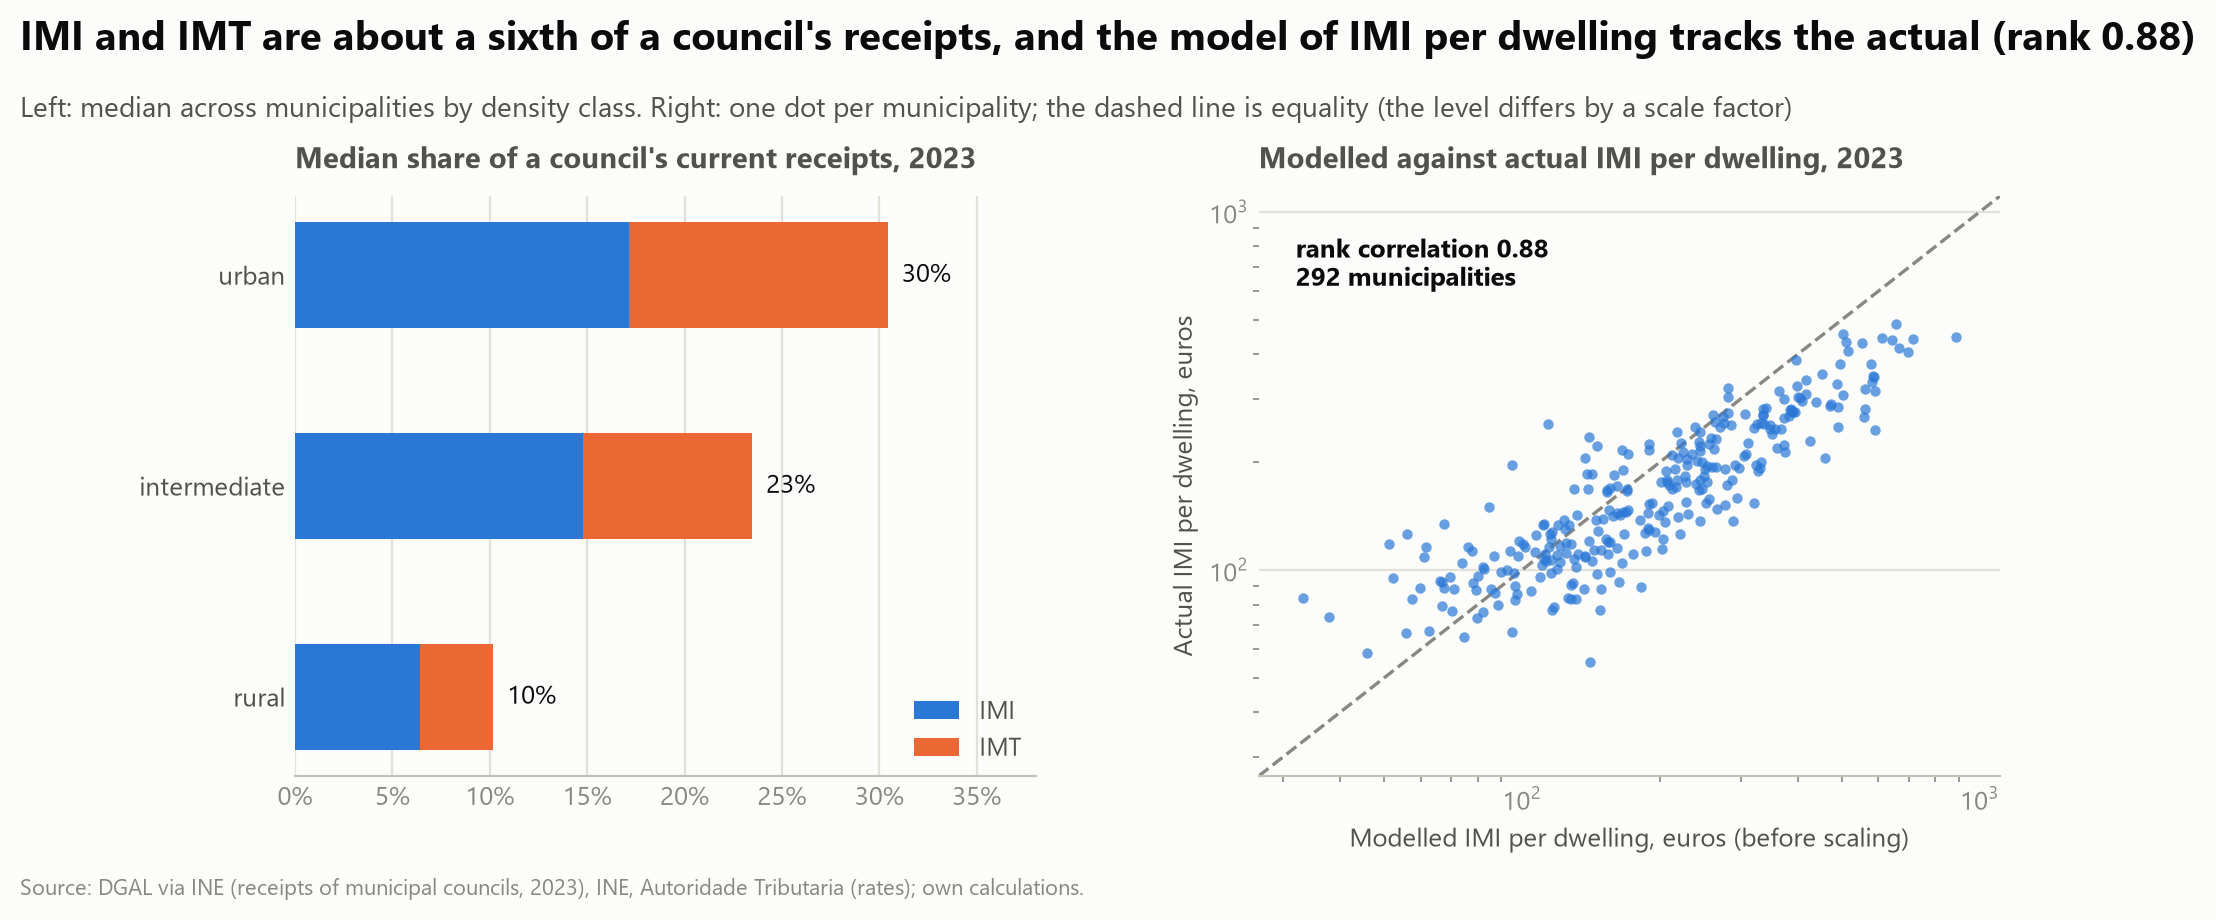
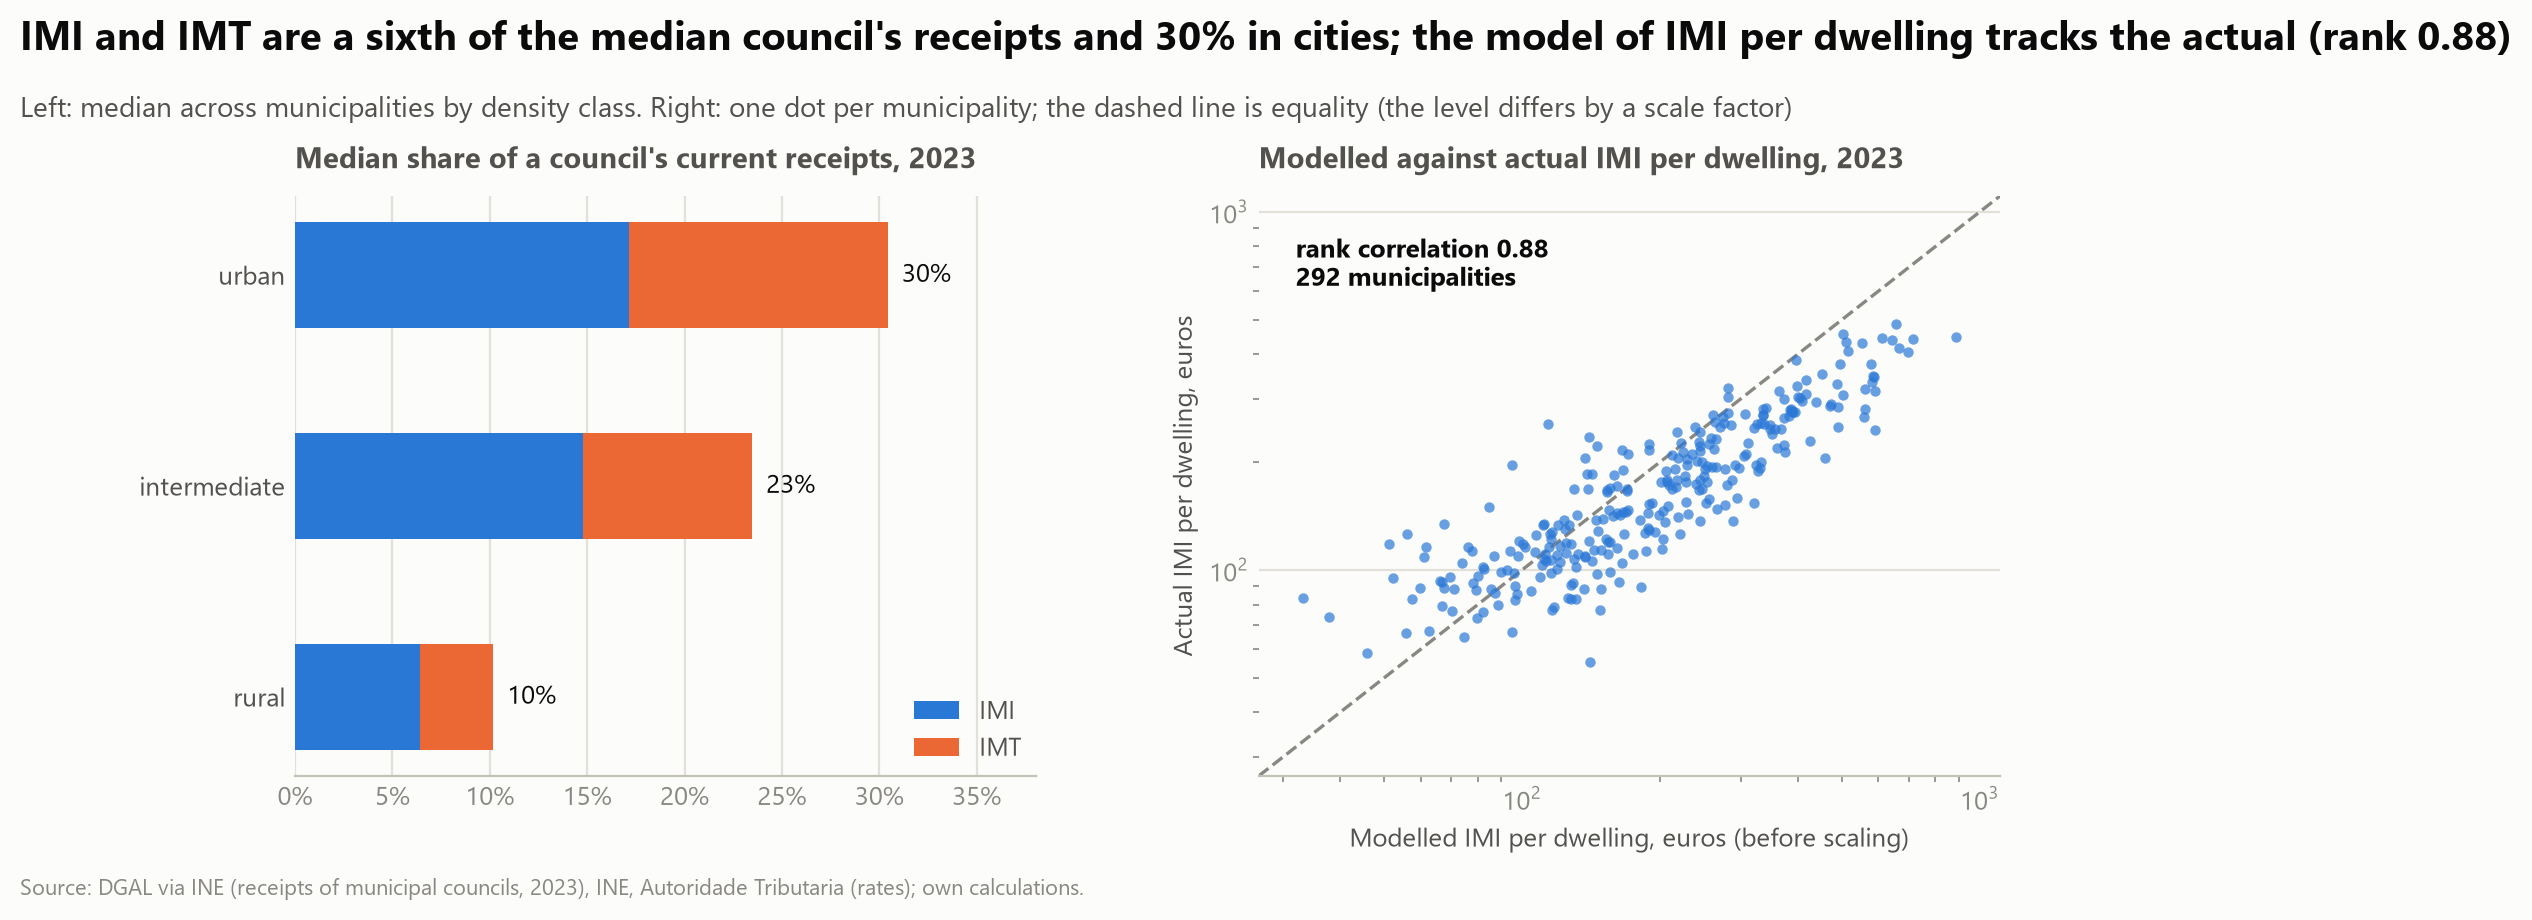
Show the council results of p3_12 on the Explanatory policy tab

diff --git a/app/pages/3_Explanatory.py b/app/pages/3_Explanatory.py
@@ -509,7 +509,7 @@ with tab_policy:
     st.subheader("What is at stake: the money")
     st.markdown(
         "IMI and IMT are **municipal** revenue, so a cut costs councils, not the central budget. These are national "
-        "figures (`p3_04`, `p3_05`); by council, IMI and IMT are about a sixth of the median council's receipts and 30% in cities (2021-2023, `p3_12`)."
+        "figures (`p3_04`, `p3_05`); the receipts of each council, 2021-2023, are further down (`p3_12`)."
     )
     revenue = table("p3", "property_tax_series").set_index("year")
     spend = table("p3", "housing_spending_series").set_index("year")
@@ -610,6 +610,114 @@ with tab_policy:
     right.caption(
         "Prices: nominal change 2015 to 2024. Tax: recurrent property tax; support: housing development plus allowances, both as the mean share of GDP 2015-2024. Italy has no housing-support value (2022-2023 spending far above trend). "
         "Six countries and three indicators: a comparison, not a test (`p3_07`)."
+    )
+
+    st.subheader("By council: who collects the money")
+    muni_nat = table("p3", "municipal_tax_national").set_index("year")
+    by_place = table("p3", "municipal_tax_by_place")
+    room_tab = table("p3", "municipal_floor_room").set_index("rate")
+    room_by = table("p3", "municipal_floor_room_by_place")
+    windfall = table("p3", "municipal_imt_windfall").set_index("measure")["value"]
+    last_year = int(muni_nat.index[-1])
+    first_year = int(muni_nat.index[0])
+    st.markdown(
+        f"Receipts of the 307 municipal councils (DGAL via INE, {first_year}-{last_year}): IMI plus IMT were "
+        f"**{muni_nat.loc[last_year, 'imi_imt_share_pct']:.0f}%** of all current receipts in {last_year} "
+        f"({muni_nat.loc[first_year, 'imi_imt_share_pct']:.0f}% in {first_year}), and {muni_nat.loc[last_year, 'median_council_share_pct']:.0f}% "
+        "for the median council. The cost of a cut falls on the council that collects, and councils differ a lot."
+    )
+    order = [
+        ("density_class", "urban", "Urban"),
+        ("density_class", "intermediate", "Intermediate"),
+        ("density_class", "rural", "Rural"),
+        ("coast_class", "coast", "Coast"),
+        ("coast_class", "inland", "Inland"),
+        ("tourist", "tourist", "Tourist"),
+        ("tourist", "other", "Other places"),
+    ]
+    rows = [
+        (label, by_place[(by_place["dimension"] == dim) & (by_place["class"] == cls)].iloc[0])
+        for dim, cls, label in order
+    ]
+    left, right = st.columns(2)
+    fig = go.Figure()
+    for col, name, color in (
+        ("imi_share_pct", "IMI", style.BLUE),
+        ("imt_share_pct", "IMT", style.ORANGE),
+    ):
+        fig.add_bar(
+            y=[f"{label} ({int(r['councils_n'])})" for label, r in rows],
+            x=[r[col] for _, r in rows],
+            name=name,
+            orientation="h",
+            marker_color=color,
+            text=[f"{r[col]:.0f}%" for _, r in rows],
+            textposition="inside",
+        )
+    fig.update_layout(barmode="stack", legend=dict(orientation="h", y=-0.2))
+    fig.update_yaxes(autorange="reversed")
+    fig.update_xaxes(title=f"Median share, {last_year} (%)")
+    left.plotly_chart(_style(fig, "IMI and IMT in a council's receipts", 380), width="stretch")
+    left.caption(
+        "Median across the councils of each class (number in brackets); urban and coastal councils and tourist ones, "
+        "where IMT is 22% of receipts, depend most (`p3_12`). Classes are proxies (density, coast, registered short-term rentals)."
+    )
+    rb = room_by[room_by["dimension"].isin(["density_class", "coast_class"])]
+    labels_room = {
+        "urban": "Urban",
+        "intermediate": "Intermediate",
+        "rural": "Rural",
+        "coast": "Coast",
+        "estuary": "Estuary",
+        "inland": "Inland",
+    }
+    fig = go.Figure(
+        go.Bar(
+            y=[
+                f"{labels_room[c]} ({int(n)} over 1%)"
+                for c, n in zip(rb["class"], rb["over_one_pct_n"], strict=True)
+            ],
+            x=rb["share_of_room_pct"],
+            orientation="h",
+            marker_color=style.BLUE,
+            text=[f"{x:.0f}%" for x in rb["share_of_room_pct"]],
+            textposition="outside",
+        )
+    )
+    fig.update_yaxes(autorange="reversed")
+    fig.update_xaxes(title="Share of the cost (%)", range=[0, 80])
+    right.plotly_chart(_style(fig, "Who would pay a cut to the floor", 380), width="stretch")
+    year_before = room_tab.loc["rate of the year before"]
+    right.caption(
+        "In brackets: councils for which the cost passes 1% of their current receipts. "
+        f"Cutting every urban IMI rate to 0.30% costs {room_tab['room_eur_m'].min():.0f} to {room_tab['room_eur_m'].max():.0f} million euros "
+        f"a year ({room_tab['room_share_of_imi_pct'].min():.1f}% to {room_tab['room_share_of_imi_pct'].max():.1f}% of IMI); "
+        f"{int(year_before['at_floor_n'])} of {int(year_before['councils_n'])} councils are at the floor already. "
+        f"For {int(year_before['over_one_pct_of_current_n'])} councils the cost passes 1% of their current receipts (up to "
+        f"{year_before['max_share_of_current_pct']:.0f}%), and they are spread out, many of them inland. Accounting, base held fixed (`p3_12`)."
+    )
+    a, b, c = st.columns(3)
+    a.metric(
+        f"IMT, {first_year} to {last_year}",
+        f"+{windfall['change_eur_m']:.0f} million euros",
+        f"+{windfall['change_pct']:.0f}%",
+        delta_color="off",
+    )
+    b.metric(
+        "That rise against the room to cut IMI",
+        f"{windfall['rise_over_floor_room_total']:.1f} times",
+        f"more than a council's own room in {windfall['councils_where_rise_exceeds_room_pct']:.0f}% of councils",
+        delta_color="off",
+    )
+    c.metric(
+        "Councils whose IMT rose",
+        f"{windfall['councils_with_a_rise_pct']:.0f}%",
+        f"median council {windfall['median_council_change_pct']:+.0f}%",
+        delta_color="off",
+    )
+    st.caption(
+        "IMT rose with prices and sales, not as a response to any cut; three years of receipts (basis not stated), no trend. "
+        "Municipal IMI is 90% of the national tax on land and buildings (the rest is the State's AIMI) and IMT 102% of the national IMT (`p3_12`)."
     )
 
     path = table("p3", "rent_update_path").set_index("year")

diff --git a/notebooks/p3_policy/p3_12_municipal_tax_revenue.py b/notebooks/p3_policy/p3_12_municipal_tax_revenue.py
@@ -120,6 +120,24 @@ summary = pd.DataFrame(
 style.save_table(summary.round(2).reset_index(names="rate"), "p3", "municipal_floor_room")
 print(summary.round(1).T.to_string())
 print(room.sort_values("room_eur", ascending=False).head(8).join(names).round(1).to_string())
+r = room.join(typ[["coast_class", "density_class"]])
+by_room = pd.concat(
+    {
+        c: r.groupby(c).agg(
+            councils_n=("room_eur", "size"),
+            room_eur_m=("room_eur", lambda x: x.sum() / 1e6),
+            over_one_pct_n=("room_share_of_current_pct", lambda x: int((x > 1).sum())),
+        )
+        for c in ("density_class", "coast_class")
+    }
+)
+by_room["share_of_room_pct"] = 100 * by_room["room_eur_m"] / room["room_eur"].sum() * 1e6
+style.save_table(
+    by_room.round(2).reset_index(names=["dimension", "class"]),
+    "p3",
+    "municipal_floor_room_by_place",
+)
+print(by_room.round(1).to_string())
 
 # %% [markdown]
 # ## Step 3 — The IMT windfall of 2021-2023
